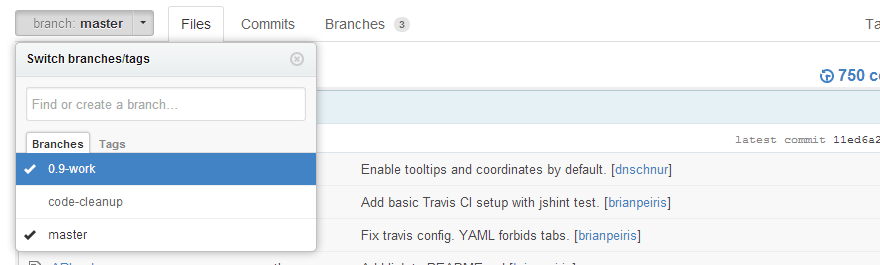
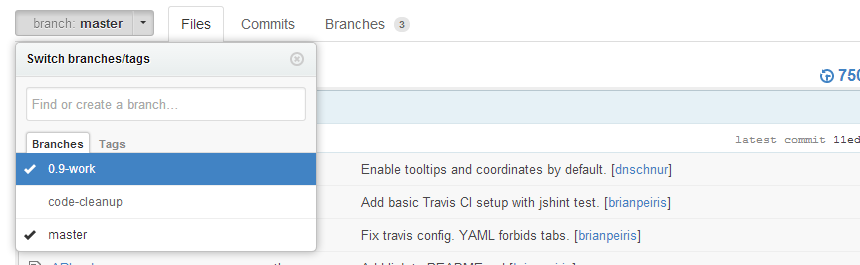
Tweak image size to account for padding.

diff --git a/_posts/2013-05-29-a-new-branching-scheme.md b/_posts/2013-05-29-a-new-branching-scheme.md
@@ -14,7 +14,7 @@ prevented us from releasing minor fixes separate from major changes that we
 knew were incomplete or still needed more testing.
 
 <div class="blog-image">
-	<img src="/images/blog/2013-05-29-a-new-branching-scheme.png" alt="{{ post.title }}" title="{{ post.title }}" width="880" height="265"></img>
+	<img src="/images/blog/2013-05-29-a-new-branching-scheme.png" alt="{{ post.title }}" title="{{ post.title }}" width="860" height="265"></img>
 </div>
 
 You may have already noticed that after the release of 0.8 we added a couple
